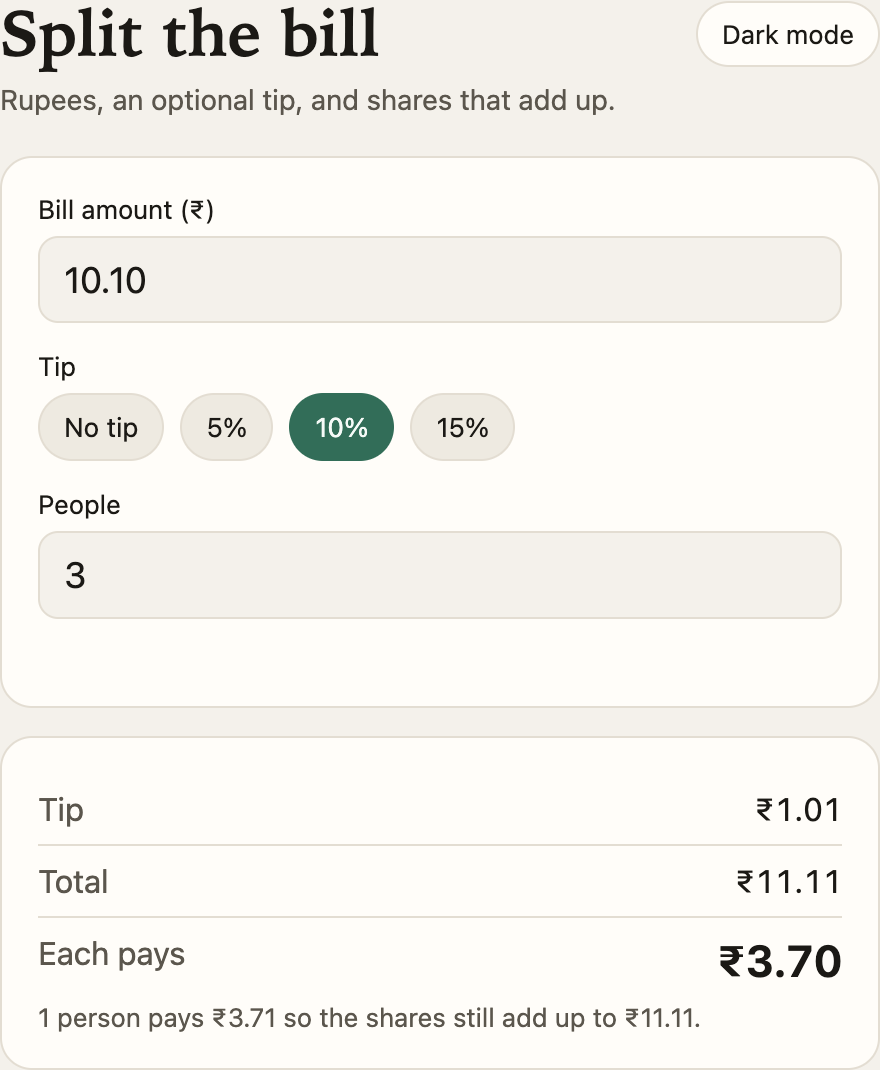
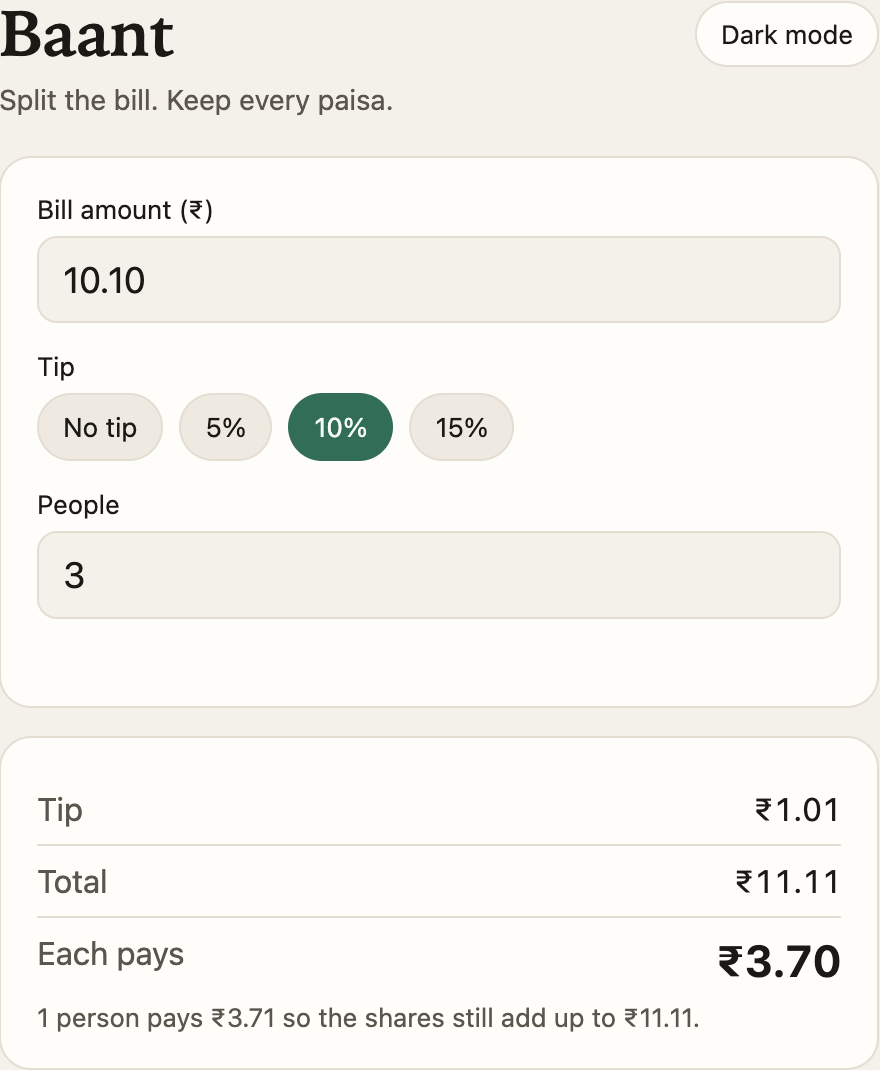
Rename the bill splitter to Baant.

diff --git a/index.html b/index.html
@@ -3,7 +3,7 @@
 <head>
   <meta charset="utf-8">
   <meta name="viewport" content="width=device-width, initial-scale=1">
-  <title>Split the bill</title>
+  <title>Baant</title>
   <style>
     :root {
       color-scheme: light;
@@ -140,10 +140,10 @@
   <main>
     <header>
       <div class="title-row">
-        <h1>Split the bill</h1>
+        <h1>Baant</h1>
         <button class="ghost" id="theme" type="button">Dark mode</button>
       </div>
-      <p class="lede">Rupees, an optional tip, and shares that add up.</p>
+      <p class="lede">Split the bill. Keep every paisa.</p>
     </header>
     <form id="bill">
       <label for="amount">Bill amount (₹)</label>

diff --git a/README.md b/README.md
@@ -1,8 +1,8 @@
-# Split the bill
+# Baant
 
-A free page for splitting a restaurant bill in rupees. Pick a tip, say how many people are paying, and the shares add up to the total.
+A free page for splitting a restaurant bill in rupees. Pick a tip, say how many people are paying, and the shares add up to the total. Baant means to divide or share.
 
-![Split the bill, with a ₹10.10 bill, a 10% tip, and three people](screenshot.png)
+![Baant, with a ₹10.10 bill, a 10% tip, and three people](screenshot.png)
 
 No account, no install, and no server. Open the file and it runs.
 
